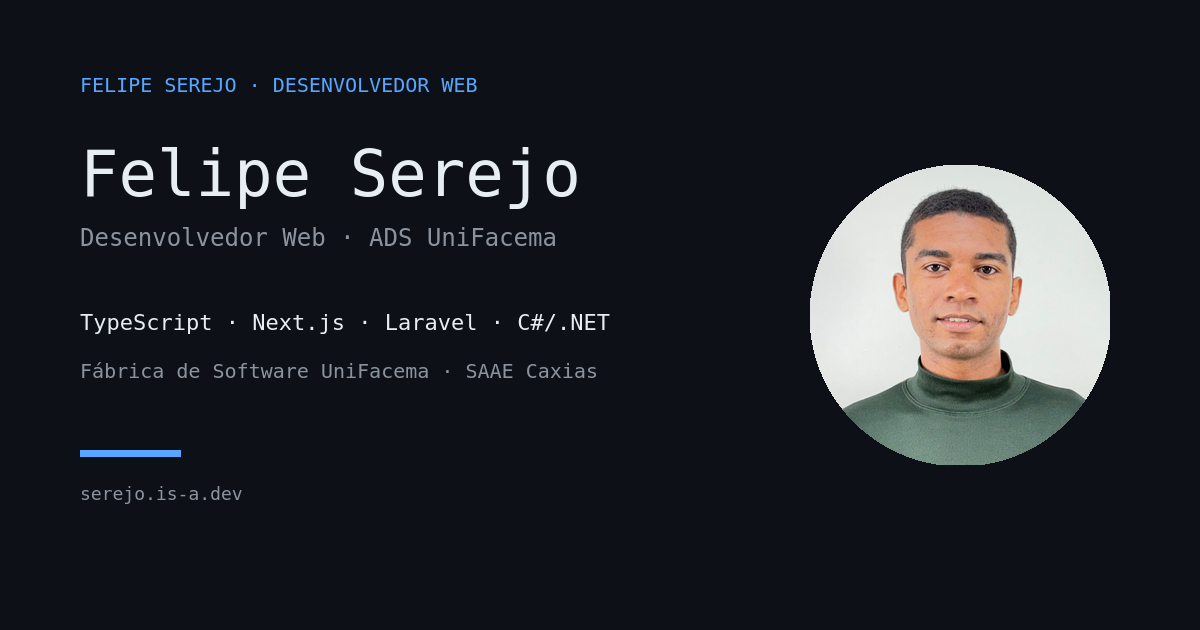
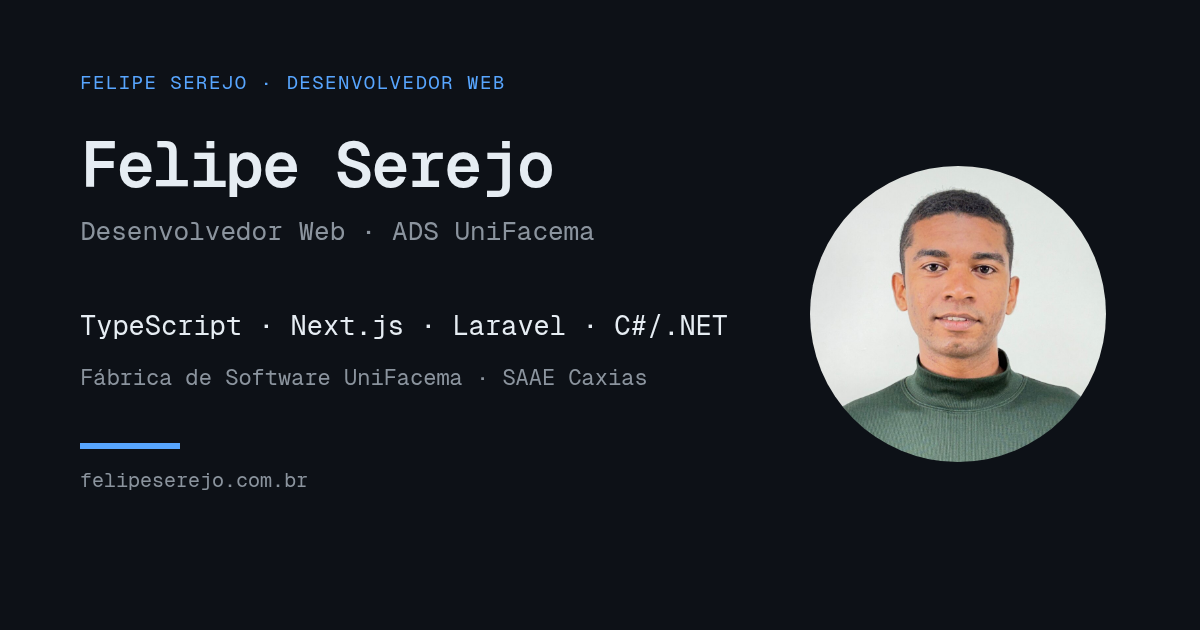
chore: migra domínio para felipeserejo.com.br e atualiza contato

diff --git a/src/data/profile.ts b/src/data/profile.ts
@@ -3,16 +3,16 @@ export const profile = {
   fullName: "Felipe Gabriel Serejo de Andrade",
   role: "Desenvolvedor Web",
   headline:
-    "Desenvolvedor Web · TypeScript, Next.js e Laravel · Fábrica de Software UniFacema · SAAE · ADS",
+    "Desenvolvedor Web · TypeScript, Next.js | Laravel · Fábrica de Software UniFacema · SAAE · ADS",
   location: "Caxias – MA",
-  email: "ssh.serejo@gmail.com",
-  bio: "Construo sistemas de ponta a ponta — do modelo de dados à interface. Na Fábrica de Software da UniFacema e no setor de TI da SAAE Caxias, transformo processo manual em software com TypeScript, Next.js e Laravel.",
+  email: "felipeserejodev@gmail.com",
+  bio: "Construo sistemas de ponta a ponta — do modelo de dados à interface. Na Fábrica de Software da UniFacema e no setor de TI da SAAE Caxias, transformo processo manual em software com TypeScript, Next.js | Laravel.",
   status: "Aberto a estágio e projetos",
   links: {
     github: "https://github.com/sshs3rejo",
     linkedin: "https://www.linkedin.com/in/felipe-serejo/",
     instagram: "https://www.instagram.com/sshs3rejo",
-    email: "mailto:ssh.serejo@gmail.com",
+    email: "mailto:felipeserejodev@gmail.com",
   },
   stack: [
     "TypeScript",

diff --git a/src/app/layout.tsx b/src/app/layout.tsx
@@ -16,7 +16,7 @@ const geistMono = Geist_Mono({
 
 const title = "Felipe Serejo — Desenvolvedor Web";
 const description =
-  "Portfólio de Felipe Serejo, desenvolvedor web em formação. Sistemas com TypeScript, Next.js e Laravel — Fábrica de Software UniFacema e SAAE Caxias.";
+  "Portfólio de Felipe Serejo, desenvolvedor web em formação. Sistemas com TypeScript, Next.js | Laravel — Fábrica de Software UniFacema e SAAE Caxias.";
 
 export const metadata: Metadata = {
   metadataBase: new URL(SITE_URL),

diff --git a/src/data/site.ts b/src/data/site.ts
@@ -1,2 +1,2 @@
 export const SITE_URL =
-  process.env.NEXT_PUBLIC_SITE_URL ?? "https://serejo.is-a.dev";
+  process.env.NEXT_PUBLIC_SITE_URL ?? "https://felipeserejo.com.br";

diff --git a/README.md b/README.md
@@ -33,16 +33,16 @@ O layout usa esse arquivo para a home e para as páginas `/projetos/[slug]`.
 
 1. Suba o repositório no GitHub.
 2. Importe na Vercel (projeto `serejo-dev`).
-3. Aponte `serejo.is-a.dev` via PR no `is-a-dev/register` com CNAME para a Vercel.
-4. Defina `NEXT_PUBLIC_SITE_URL=https://serejo.is-a.dev` nas variáveis da Vercel.
+3. Aponte `felipeserejo.com.br` no Registro.br (A `216.198.79.1` + TXT de verificação da Vercel).
+4. Defina `NEXT_PUBLIC_SITE_URL=https://felipeserejo.com.br` nas variáveis da Vercel.
 
 Produção: https://serejo-dev-ruddy.vercel.app
-Domínio: https://serejo.is-a.dev (PR `is-a-dev/register#62822`, aguardando revisão)
+Domínio: https://felipeserejo.com.br (Registro.br)
 
 O layout inclui JSON-LD `Person`, canonical, Open Graph e sitemap para indexação.
 
 ## Pendências antes de publicar
 
-- Confirmar se o e-mail `ssh.serejo@gmail.com` pode ficar público.
+- Configurar o DNS de `felipeserejo.com.br` no Registro.br e verificar na Vercel.
 - O LinkedIn está em `linkedin.com/in/felipe-serejo` (URL atualizada em 24/11/2026).
 - Confirmar o mês de início na Fábrica (resultado da seleção em 28/09/2026; o LinkedIn está com ago/2026).
